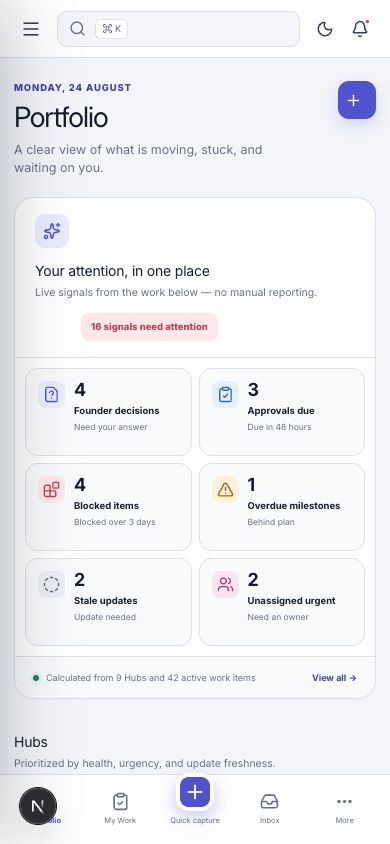
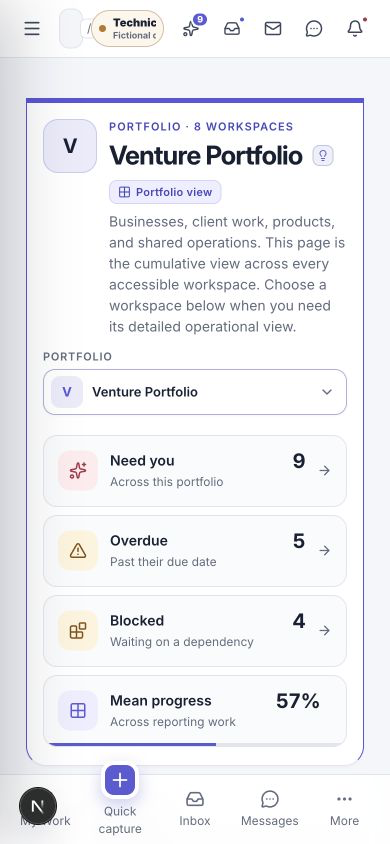
fix: remove onboarding and sidebar visual blockers

diff --git a/tests/e2e/visual-regressions.spec.ts b/tests/e2e/visual-regressions.spec.ts
@@ -1,0 +1,240 @@
+import { expect, type Locator, type Page, test } from "@playwright/test";
+import { gotoCanonical, workspaceRoute } from "./routes";
+
+const onboardingWidths = [320, 390, 768, 1280] as const;
+
+const rectanglesOverlap = (
+  first: { top: number; right: number; bottom: number; left: number },
+  second: { top: number; right: number; bottom: number; left: number },
+) =>
+  first.left < second.right &&
+  first.right > second.left &&
+  first.top < second.bottom &&
+  first.bottom > second.top;
+
+async function expectCompactChoiceControl(control: Locator) {
+  await expect(control).toBeVisible();
+  const measurements = await control.evaluate((element) => {
+    const input = element as HTMLInputElement;
+    const inputRect = input.getBoundingClientRect();
+    const label = input.closest("label");
+    const textRects = [...(label?.querySelectorAll("strong, small") ?? [])].map(
+      (text) => {
+        const range = document.createRange();
+        range.selectNodeContents(text);
+        return range.getBoundingClientRect();
+      },
+    );
+    const styles = getComputedStyle(input);
+
+    return {
+      width: styles.width,
+      height: styles.height,
+      inputRect: {
+        top: inputRect.top,
+        right: inputRect.right,
+        bottom: inputRect.bottom,
+        left: inputRect.left,
+      },
+      textRects: textRects.map((rect) => ({
+        top: rect.top,
+        right: rect.right,
+        bottom: rect.bottom,
+        left: rect.left,
+      })),
+    };
+  });
+
+  expect(measurements.width).toBe("18px");
+  expect(measurements.height).toBe("18px");
+  for (const textRect of measurements.textRects) {
+    expect(rectanglesOverlap(measurements.inputRect, textRect)).toBe(false);
+  }
+}
+
+async function expectChoiceGrid(page: Page, selector: string) {
+  const controls = page.locator(`${selector} input`);
+  expect(await controls.count()).toBeGreaterThan(0);
+  for (let index = 0; index < (await controls.count()); index += 1) {
+    await expectCompactChoiceControl(controls.nth(index));
+  }
+}
+
+async function goToOnboardingStep(page: Page, step: number) {
+  await page.goto("/onboarding");
+  for (let currentStep = 1; currentStep < step; currentStep += 1) {
+    await page.getByRole("button", { name: "Continue" }).click();
+  }
+}
+
+async function focusWithKeyboard(page: Page, target: Locator) {
+  await page.evaluate(() => (document.activeElement as HTMLElement)?.blur());
+  for (let attempt = 0; attempt < 20; attempt += 1) {
+    await page.keyboard.press("Tab");
+    if (
+      await target.evaluate((element) => document.activeElement === element)
+    ) {
+      return;
+    }
+  }
+  throw new Error("Choice control was not reachable in the keyboard tab order");
+}
+
+test("onboarding choice controls stay compact, legible, and keyboard operable", async ({
+  page,
+}) => {
+  const steps = [
+    {
+      step: 1,
+      selector: ".managing-grid",
+      heading: "What are you managing?",
+      control: "radio",
+    },
+    {
+      step: 3,
+      selector: ".blueprint-choice-grid",
+      heading: "Choose a starter Blueprint",
+      control: "radio",
+    },
+    {
+      step: 4,
+      selector: ".setup-option-grid",
+      heading: "Bring your team and context",
+      control: "checkbox",
+    },
+  ] as const;
+
+  for (const scenario of steps) {
+    await goToOnboardingStep(page, scenario.step);
+    await expect(
+      page.getByRole("heading", { name: scenario.heading, level: 1 }),
+    ).toBeVisible();
+
+    for (const width of onboardingWidths) {
+      await page.setViewportSize({ width, height: 900 });
+      await expectChoiceGrid(page, scenario.selector);
+    }
+
+    const firstControl = page
+      .locator(`${scenario.selector} input[type="${scenario.control}"]`)
+      .first();
+    await focusWithKeyboard(page, firstControl);
+    await expect(firstControl).toBeFocused();
+    await expect(firstControl.locator("xpath=..")).toHaveCSS(
+      "outline-width",
+      "2px",
+    );
+
+    if (scenario.control === "radio") {
+      await page.keyboard.press("ArrowDown");
+      await expect(
+        page.locator(`${scenario.selector} input[type="radio"]`).nth(1),
+      ).toBeChecked();
+    } else {
+      const wasChecked = await firstControl.isChecked();
+      await page.keyboard.press("Space");
+      if (wasChecked) {
+        await expect(firstControl).not.toBeChecked();
+      } else {
+        await expect(firstControl).toBeChecked();
+      }
+    }
+
+    // CSS zoom gives the browser a deterministic 200% rendering pass. The
+    // geometry assertion catches a choice control covering its title/copy.
+    await page.setViewportSize({ width: 1280, height: 900 });
+    await page.locator("html").evaluate((html) => {
+      html.style.zoom = "2";
+    });
+    await expectChoiceGrid(page, scenario.selector);
+  }
+});
+
+for (const height of [768, 820, 900, 945] as const) {
+  test(`sidebar keeps all regions reachable at ${height}px high`, async ({
+    page,
+  }) => {
+    await page.setViewportSize({ width: 1280, height });
+    await gotoCanonical(page, workspaceRoute("dashboard"));
+
+    const sidebar = page.locator("aside.sidebar");
+    const header = sidebar.locator(".brand-row");
+    const navigation = sidebar.getByRole("navigation", {
+      name: "Primary navigation",
+    });
+    const footer = sidebar.locator(".sidebar-foot");
+
+    await expect(header).toBeVisible();
+    await expect(navigation).toBeVisible();
+    await expect(footer).toBeVisible();
+
+    const regionMetrics = await sidebar.evaluate((element) => {
+      const aside = element as HTMLElement;
+      const nav = aside.querySelector("nav") as HTMLElement;
+      const foot = aside.querySelector(".sidebar-foot") as HTMLElement;
+      const brand = aside.querySelector(".brand-row") as HTMLElement;
+      const asideRect = aside.getBoundingClientRect();
+      const navRect = nav.getBoundingClientRect();
+      const footRect = foot.getBoundingClientRect();
+      const brandRect = brand.getBoundingClientRect();
+
+      return {
+        asideBottom: asideRect.bottom,
+        asideScrollHeight: aside.scrollHeight,
+        asideClientHeight: aside.clientHeight,
+        brandBottom: brandRect.bottom,
+        navTop: navRect.top,
+        navBottom: navRect.bottom,
+        navScrollHeight: nav.scrollHeight,
+        navClientHeight: nav.clientHeight,
+        navOverflowY: getComputedStyle(nav).overflowY,
+        footTop: footRect.top,
+        footBottom: footRect.bottom,
+      };
+    });
+
+    expect(regionMetrics.navTop).toBeGreaterThanOrEqual(
+      regionMetrics.brandBottom,
+    );
+    expect(regionMetrics.navBottom).toBeLessThanOrEqual(regionMetrics.footTop);
+    expect(regionMetrics.footBottom).toBeLessThanOrEqual(
+      regionMetrics.asideBottom,
+    );
+    expect(regionMetrics.asideScrollHeight).toBeLessThanOrEqual(
+      regionMetrics.asideClientHeight + 1,
+    );
+    expect(regionMetrics.navOverflowY).toBe("auto");
+    expect(regionMetrics.navScrollHeight).toBeGreaterThan(
+      regionMetrics.navClientHeight,
+    );
+
+    const footerTopBeforeScroll = regionMetrics.footTop;
+    const navigationItems = navigation.locator(".nav-item");
+    for (let index = 0; index < (await navigationItems.count()); index += 1) {
+      const item = navigationItems.nth(index);
+      await item.scrollIntoViewIfNeeded();
+      await expect(item).toBeInViewport();
+      await item.focus();
+      await expect(item).toBeFocused();
+
+      const [itemBox, navBox] = await Promise.all([
+        item.boundingBox(),
+        navigation.boundingBox(),
+      ]);
+      expect(itemBox).not.toBeNull();
+      expect(navBox).not.toBeNull();
+      expect(itemBox!.y).toBeGreaterThanOrEqual(navBox!.y);
+      expect(itemBox!.y + itemBox!.height).toBeLessThanOrEqual(
+        navBox!.y + navBox!.height,
+      );
+    }
+
+    const footerTopAfterScroll = await footer.evaluate(
+      (element) => element.getBoundingClientRect().top,
+    );
+    expect(footerTopAfterScroll).toBeCloseTo(footerTopBeforeScroll, 1);
+    await expect(
+      footer.getByRole("link", { name: "Settings", exact: true }),
+    ).toBeVisible();
+  });
+}

diff --git a/apps/web/app/workspace.css b/apps/web/app/workspace.css
@@ -1789,7 +1789,8 @@
   font-size: var(--fh-text-sm);
   font-weight: 650;
 }
-.onboarding-form input,
+.onboarding-form
+  input:not([type="radio"]):not([type="checkbox"]):not([type="color"]),
 .onboarding-form select,
 .onboarding-form textarea {
   width: 100%;
@@ -2003,7 +2004,8 @@
 .setup-option-grid > label {
   position: relative;
   display: grid;
-  grid-template-columns: 34px minmax(0, 1fr);
+  grid-template-columns: 34px minmax(0, 1fr) 18px;
+  grid-template-rows: auto auto;
   align-items: center;
   gap: 1px 9px;
   min-height: 66px;
@@ -2024,10 +2026,22 @@
 .managing-grid input,
 .blueprint-choice-grid input,
 .setup-option-grid input {
-  position: absolute;
-  top: 8px;
-  right: 8px;
+  position: static;
+  grid-column: 3;
+  grid-row: 1 / 3;
+  align-self: start;
+  justify-self: end;
+  width: 18px;
+  height: 18px;
+  margin: 0;
+  padding: 0;
   accent-color: var(--fh-primary);
+}
+.managing-grid > label:has(input:focus-visible),
+.blueprint-choice-grid > label:has(input:focus-visible),
+.setup-option-grid > label:has(input:focus-visible) {
+  outline: 2px solid var(--fh-primary);
+  outline-offset: 2px;
 }
 .managing-grid label > span,
 .blueprint-choice-grid label > span,
@@ -2035,6 +2049,7 @@
   width: 32px;
   height: 32px;
   display: grid;
+  grid-column: 1;
   grid-row: 1 / 3;
   place-items: center;
   color: var(--fh-primary);
@@ -2054,11 +2069,15 @@
 .managing-grid strong,
 .blueprint-choice-grid strong,
 .setup-option-grid strong {
+  grid-column: 2;
+  grid-row: 1;
   font-size: var(--fh-text-sm);
 }
 .managing-grid small,
 .blueprint-choice-grid small,
 .setup-option-grid small {
+  grid-column: 2;
+  grid-row: 2;
   color: var(--fh-muted);
   font-size: var(--fh-text-xs);
 }

diff --git a/apps/web/app/globals.css b/apps/web/app/globals.css
@@ -64,6 +64,7 @@ a {
   height: 48px;
   display: flex;
   align-items: center;
+  flex: 0 0 auto;
   gap: 10px;
   padding: 0 7px 14px;
   border-bottom: 1px solid var(--fh-border);
@@ -101,9 +102,31 @@ a {
   font-weight: 750;
 }
 .sidebar nav {
-  padding-top: 16px;
-  overflow: auto;
-  scrollbar-width: none;
+  min-width: 0;
+  min-height: 0;
+  flex: 1 1 auto;
+  padding: 16px 2px 16px 0;
+  overflow-x: hidden;
+  overflow-y: auto;
+  overscroll-behavior: contain;
+  scrollbar-color: transparent transparent;
+  scrollbar-gutter: stable;
+  scrollbar-width: thin;
+}
+.sidebar nav:hover,
+.sidebar nav:focus-within {
+  scrollbar-color: var(--fh-border-strong) transparent;
+}
+.sidebar nav::-webkit-scrollbar {
+  width: 6px;
+}
+.sidebar nav::-webkit-scrollbar-thumb {
+  background: transparent;
+  border-radius: 999px;
+}
+.sidebar nav:hover::-webkit-scrollbar-thumb,
+.sidebar nav:focus-within::-webkit-scrollbar-thumb {
+  background: var(--fh-border-strong);
 }
 .nav-label {
   margin: 0 9px 7px;
@@ -188,7 +211,8 @@ a {
   color: var(--fh-muted);
 }
 .sidebar-foot {
-  margin-top: auto;
+  flex: 0 0 auto;
+  margin-top: 0;
   padding-top: 10px;
   border-top: 1px solid var(--fh-border);
 }
